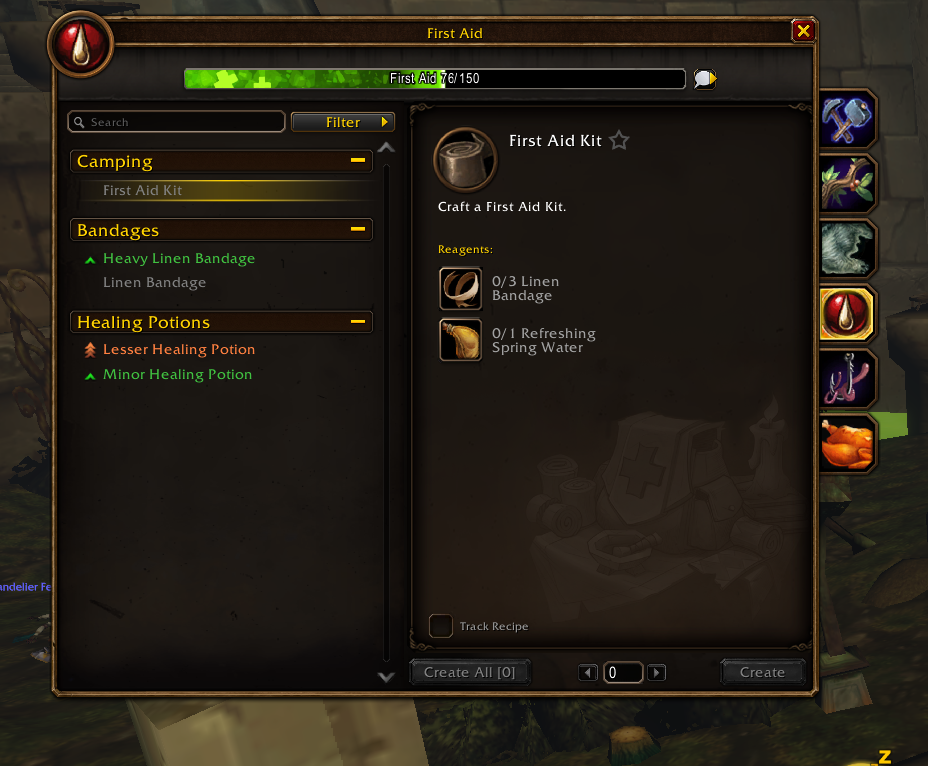
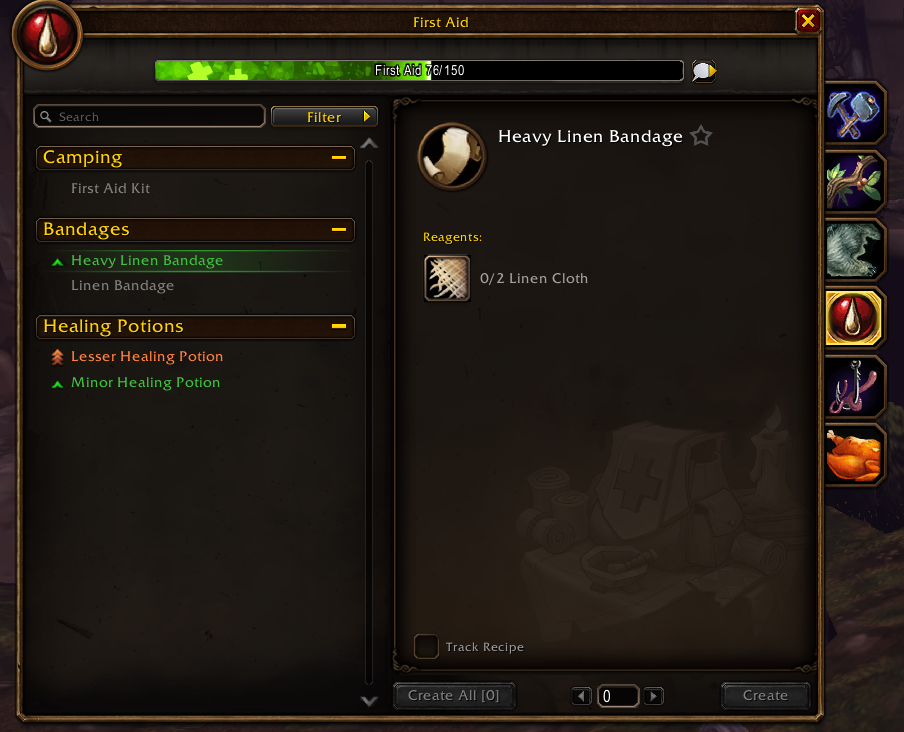
Screenshot: the selected recipe's highlight in its skill-up color

diff --git a/README.md b/README.md
@@ -8,7 +8,7 @@ Classic recipe colors for the **WoW: Forever** professions window. Every recipe 
 how likely it is to raise your skill, the way the old trade skill window did, so you can see at a
 glance what to craft next.
 
-![The First Aid window with ColorCraft: orange, green and gray recipe names](screenshot.png)
+![The First Aid window with ColorCraft: orange, green and gray recipe names, the selected recipe highlighted in its green](screenshot.png)
 
 | Color | Meaning |
 |---|---|
